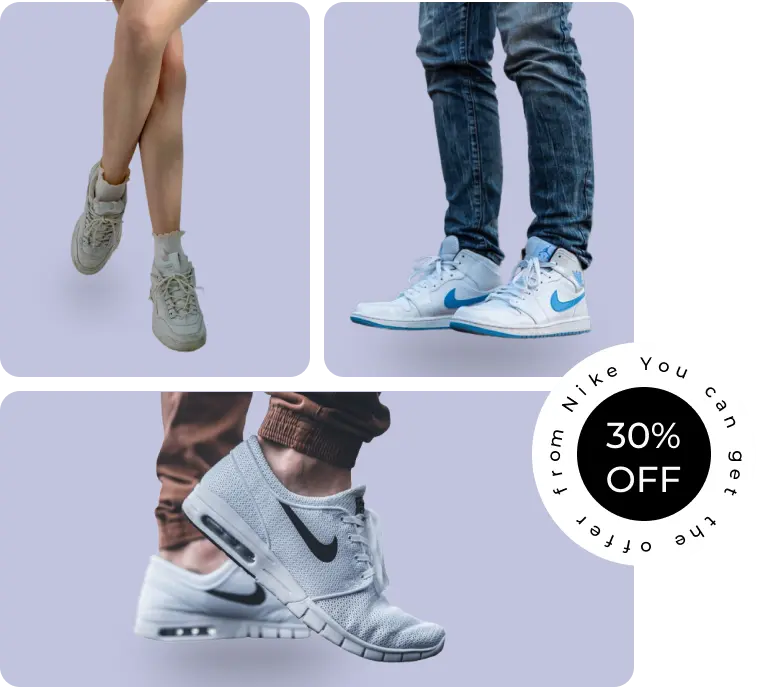
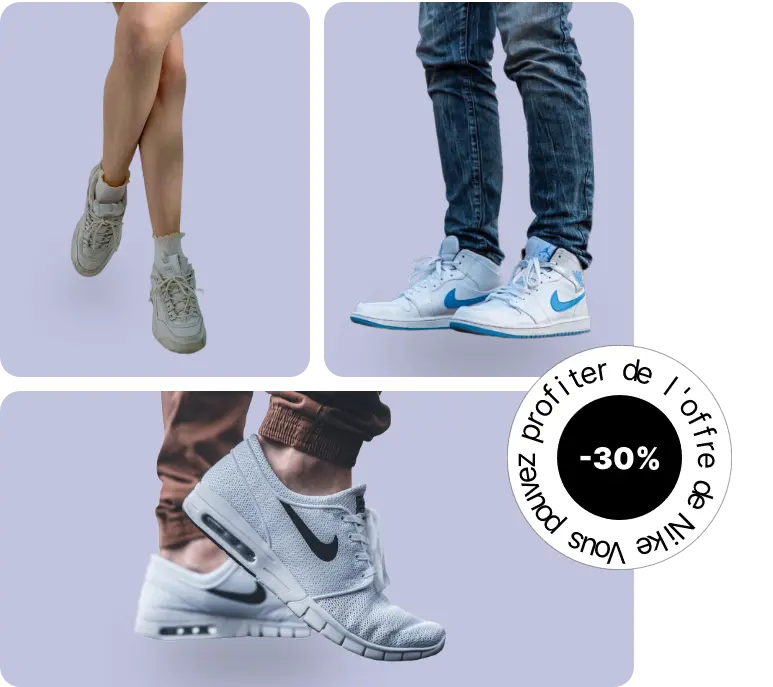
🖼 Section : SpecialOffer

diff --git a/layouts/SpecialOffer.jsx b/layouts/SpecialOffer.jsx
@@ -1,0 +1,52 @@
+import { Button } from '@components';
+import { offer } from '@public/assets/images';
+import Image from 'next/image';
+
+const SpecialOffer = () => {
+  return (
+    <section className="padding">
+      <div className="max__wrapper flex items-center justify-between gap-10 max-xl:flex-col-reverse">
+        <div className="flex-1">
+          <Image
+            className="w-full object-contain"
+            src={offer}
+            alt="-30%, offre spéciale Nike."
+            width={773}
+            height={687}
+            loading="lazy"
+          />
+        </div>
+        <div className="flex flex-1 flex-col">
+          <h2 className="font-palanquin text-4xl font-bold">
+            Offre <span className="text-accent">Spéciale</span>
+          </h2>
+          <p className="mt-4 font-montserrat text-lg leading-7 text-gray lg:max-w-3xl">
+            Lancez-vous dans un voyage de shopping qui redéfinit votre
+            expérience avec des offres imbattables. De nos sélections de premier
+            choix aux économies incroyables, nous offrons une valeur inégalée
+            qui nous distingue.
+          </p>
+          <p className="mt-6 font-montserrat text-lg leading-7 text-gray lg:max-w-3xl">
+            Explorez un univers de possibilités conçu pour satisfaire vos désirs
+            uniques, dépassant les attentes les plus élevées. Votre voyage avec
+            nous est tout simplement exceptionnel.
+          </p>
+          <div className="mt-11 flex flex-wrap gap-4">
+            <Button
+              type="button"
+              title="Achetez maintenant"
+              icon="/assets/icons/arrow.svg"
+              variant="button__red"
+            />
+            <Button
+              type="button"
+              title="En savoir plus"
+              variant="button__white"
+            />
+          </div>
+        </div>
+      </div>
+    </section>
+  );
+};
+export default SpecialOffer;

diff --git a/app/page.js b/app/page.js
@@ -1,5 +1,11 @@
 import { Navbar } from '@components';
-import { Hero, PopularProducts, Services, SuperQuality } from '@layouts';
+import {
+  Hero,
+  PopularProducts,
+  Services,
+  SpecialOffer,
+  SuperQuality,
+} from '@layouts';
 
 const Home = () => {
   return (
@@ -9,6 +15,7 @@ const Home = () => {
       <PopularProducts />
       <SuperQuality />
       <Services />
+      <SpecialOffer />
     </>
   );
 };

diff --git a/app/globals.css b/app/globals.css
@@ -53,6 +53,10 @@
   .button__red {
     @apply border-accent bg-accent text-white outline-offset-8 outline-accent transition-colors hover:bg-white hover:text-accent;
   }
+
+  .button__white {
+    @apply border-gray bg-white text-gray outline-offset-8 outline-accent transition-colors hover:bg-gray hover:text-white;
+  }
 }
 
 /**********************/

diff --git a/layouts/index.js b/layouts/index.js
@@ -1,6 +1,7 @@
 import Hero from './Hero';
 import PopularProducts from './PopularProducts';
 import Services from './Services';
+import SpecialOffer from './SpecialOffer';
 import SuperQuality from './SuperQuality';
 
-export { Hero, PopularProducts, Services, SuperQuality };
+export { Hero, PopularProducts, Services, SpecialOffer, SuperQuality };
